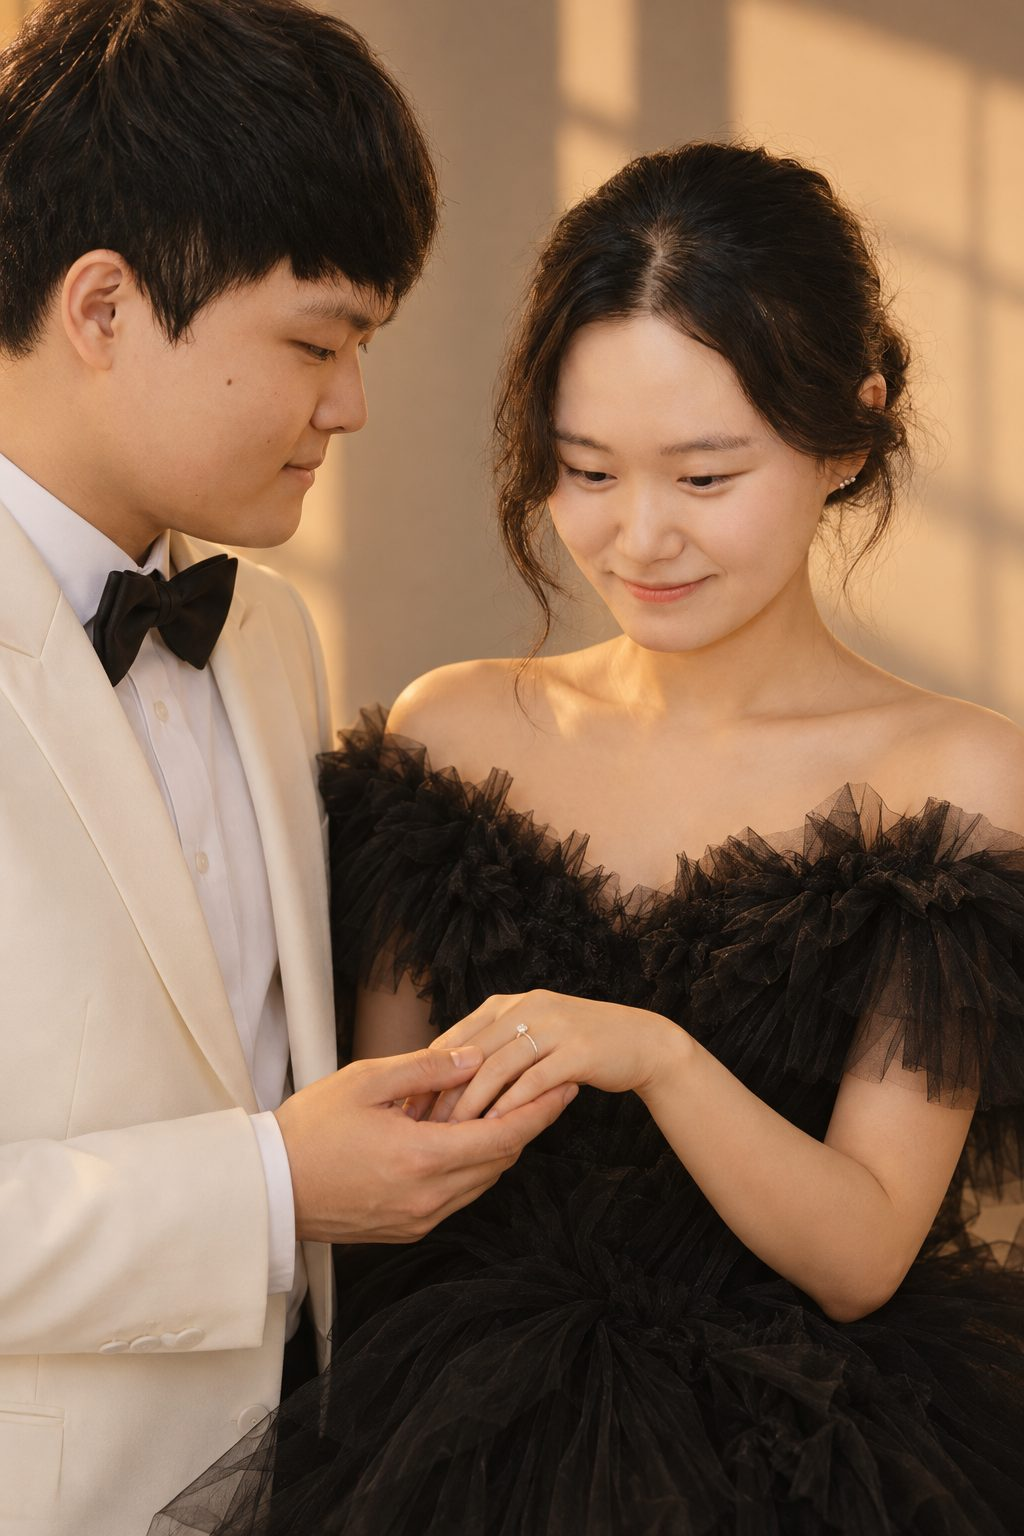
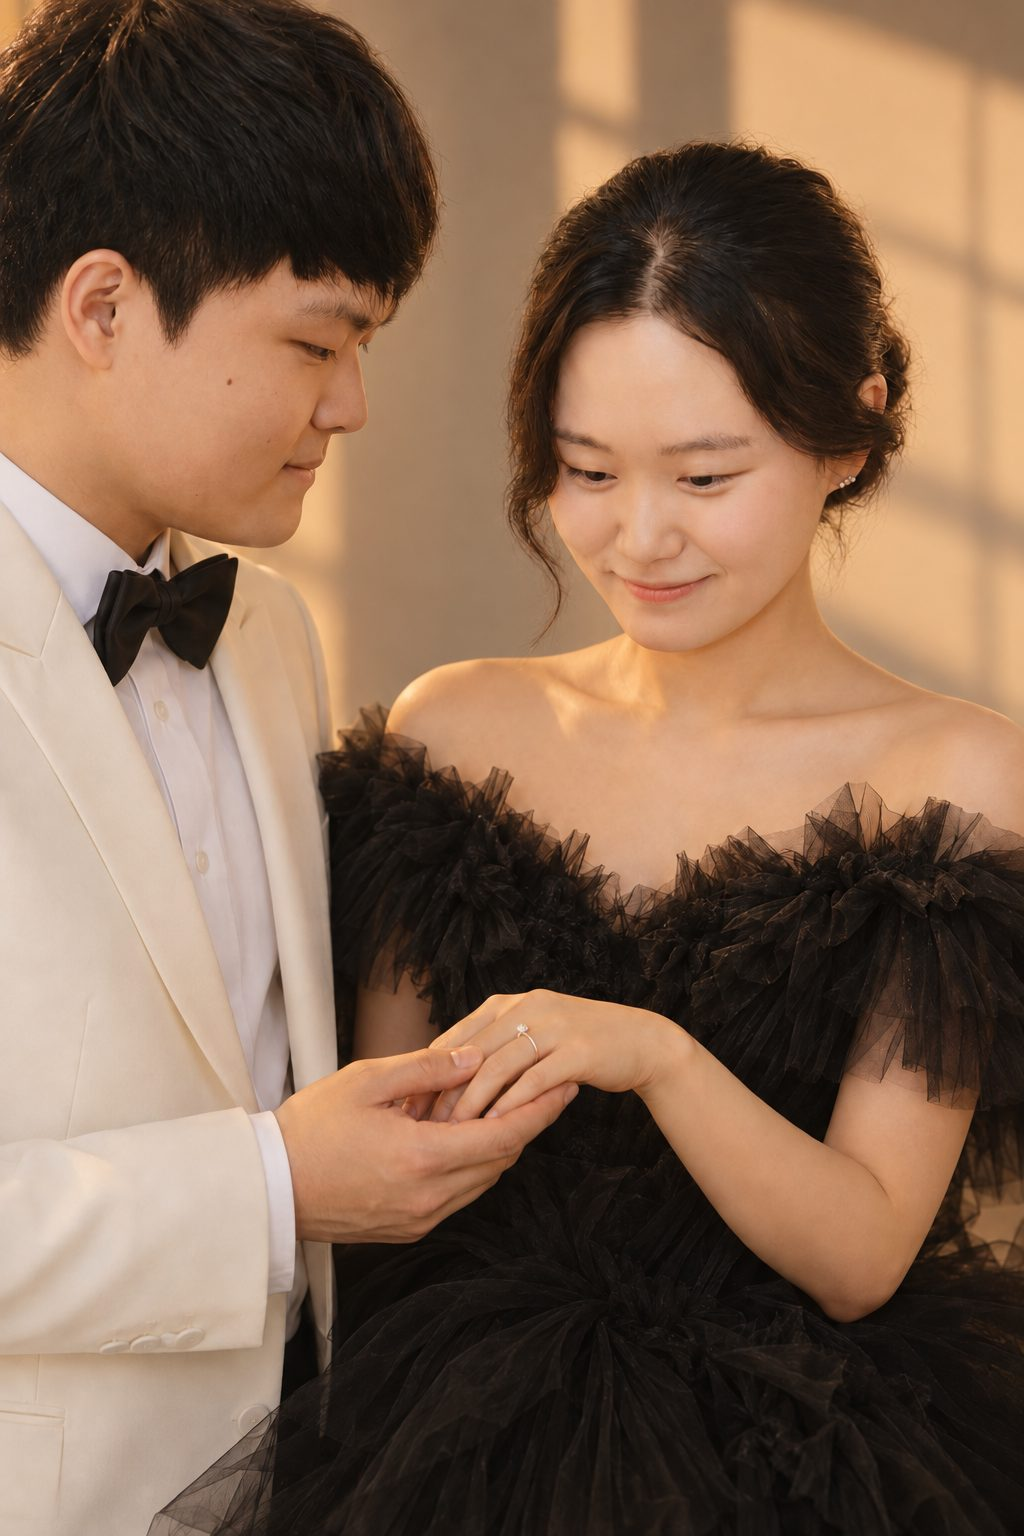
Use the retouched ring photo for the cover, gallery and share image

diff --git a/index.html b/index.html
@@ -11,7 +11,7 @@
 <meta property="og:type" content="website">
 <meta property="og:title" content="이준규 · 이새빛 결혼합니다">
 <meta property="og:description" content="2027년 10월 2일 토요일 오후 2시 · 한국기독교연합회관 3층 연합웨딩홀">
-<meta property="og:image" content="https://jungyu0413.github.io/wedding/img/og.jpg">
+<meta property="og:image" content="https://jungyu0413.github.io/wedding/img/og.jpg?v=2">
 <meta property="og:image:width" content="1200">
 <meta property="og:image:height" content="630">
 <meta property="og:url" content="https://jungyu0413.github.io/wedding/">
